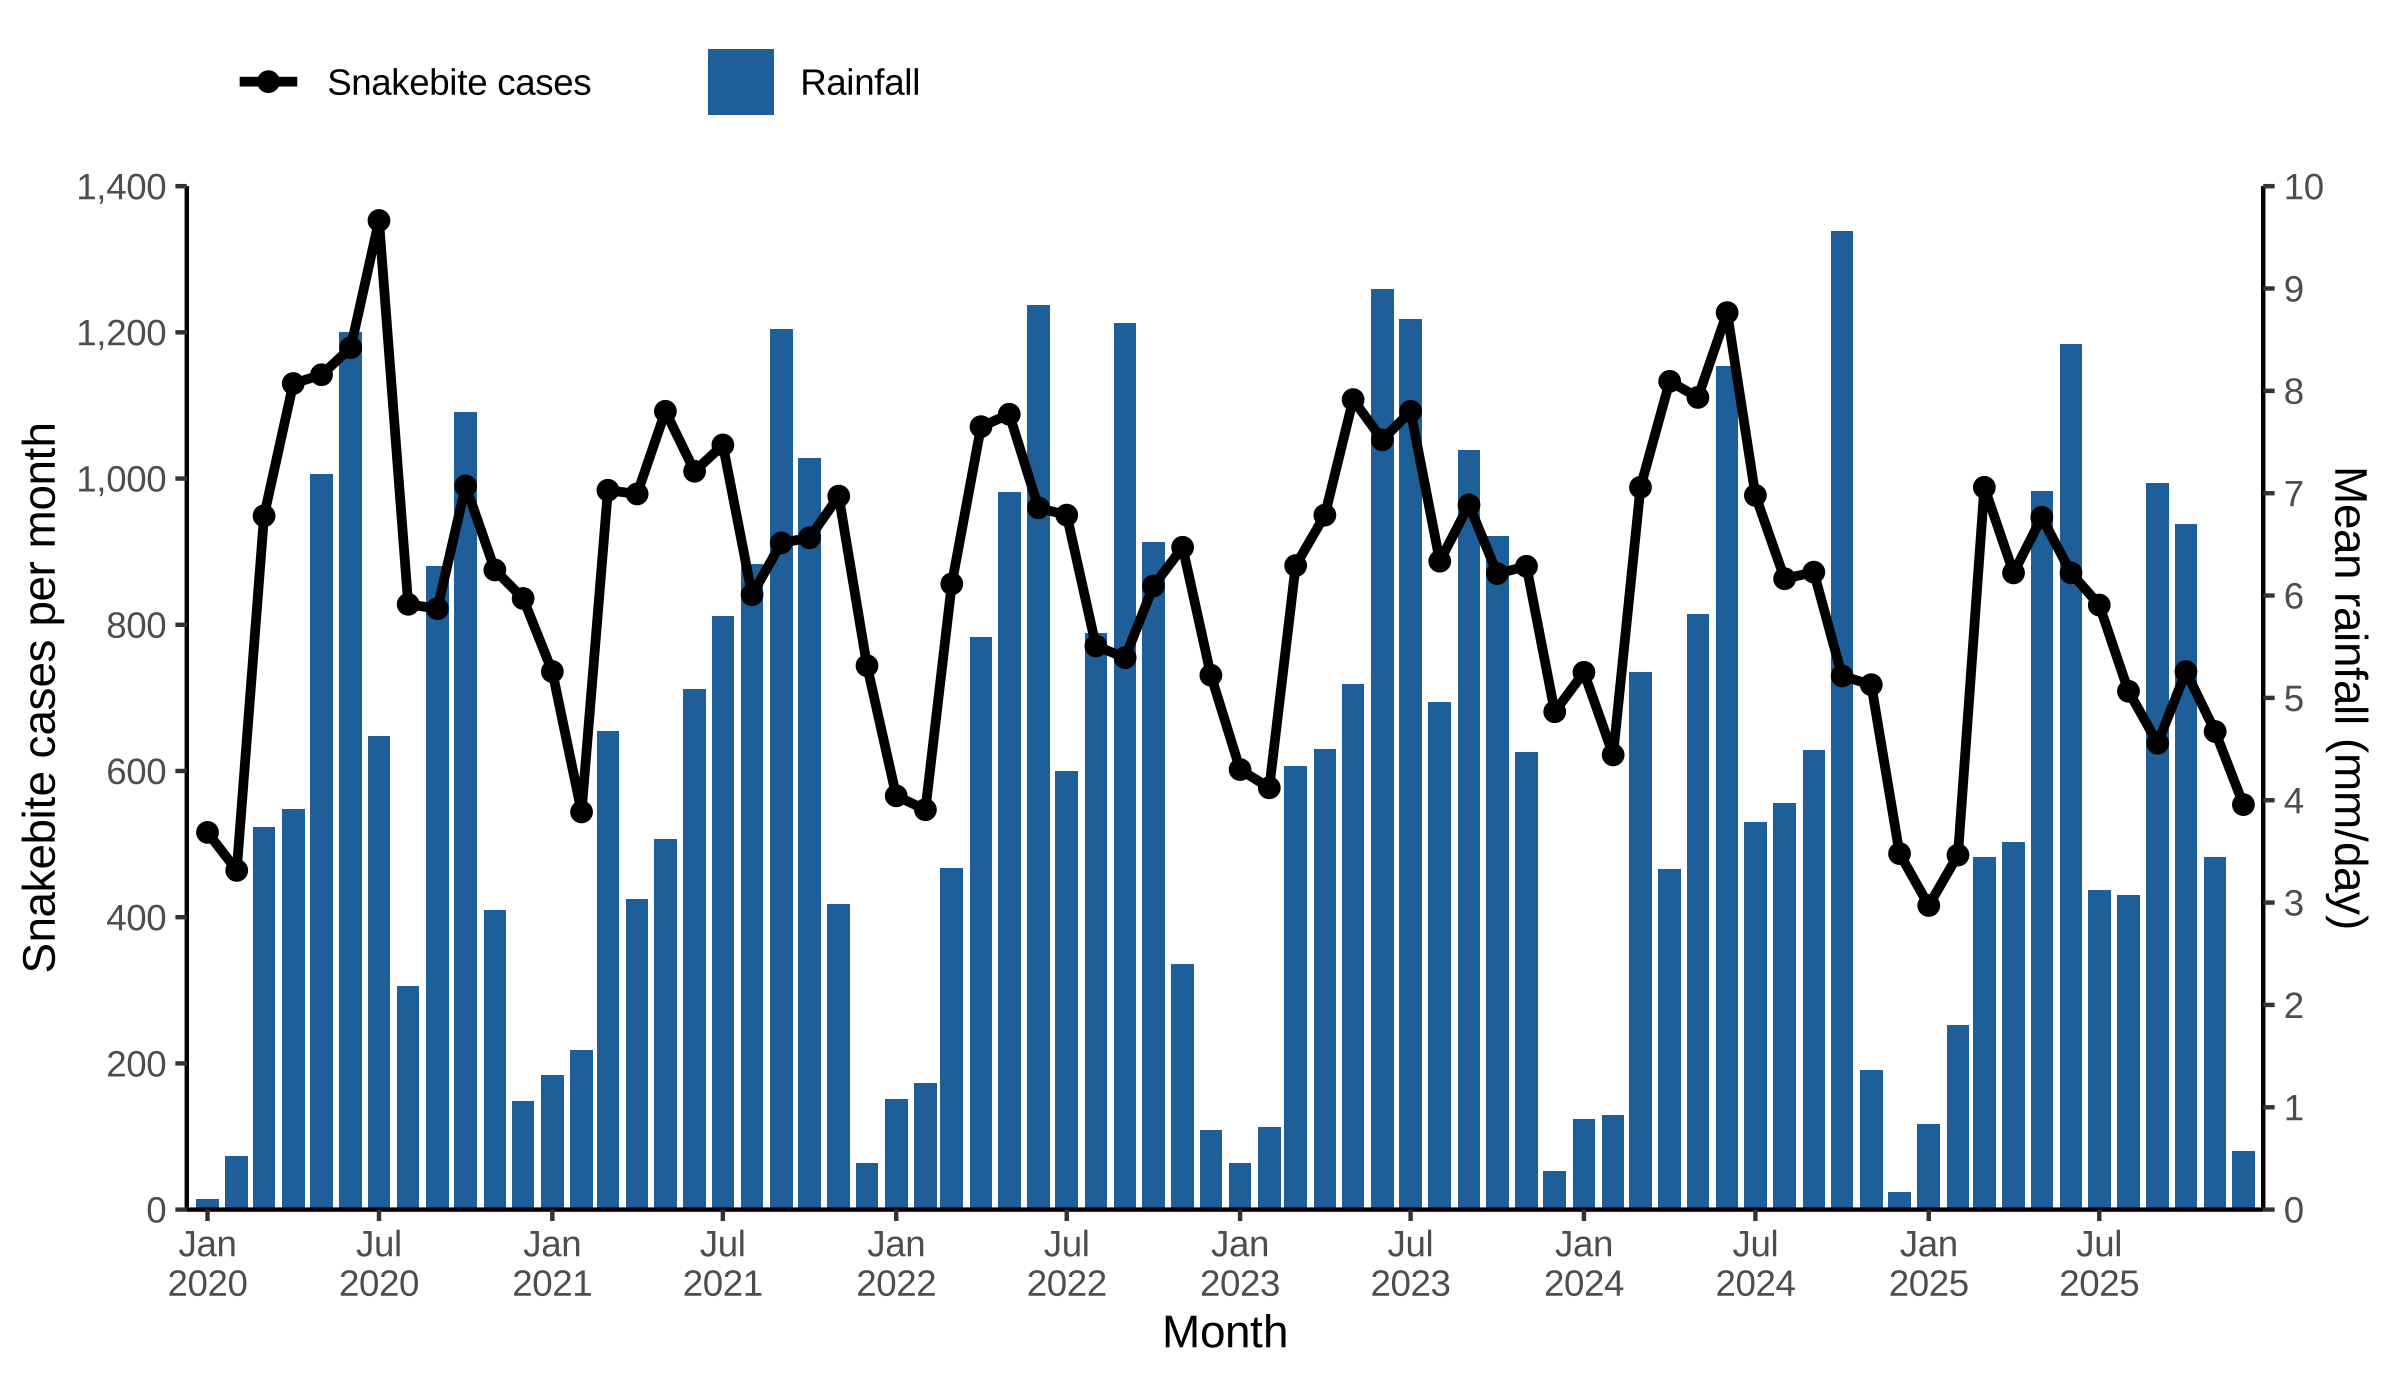
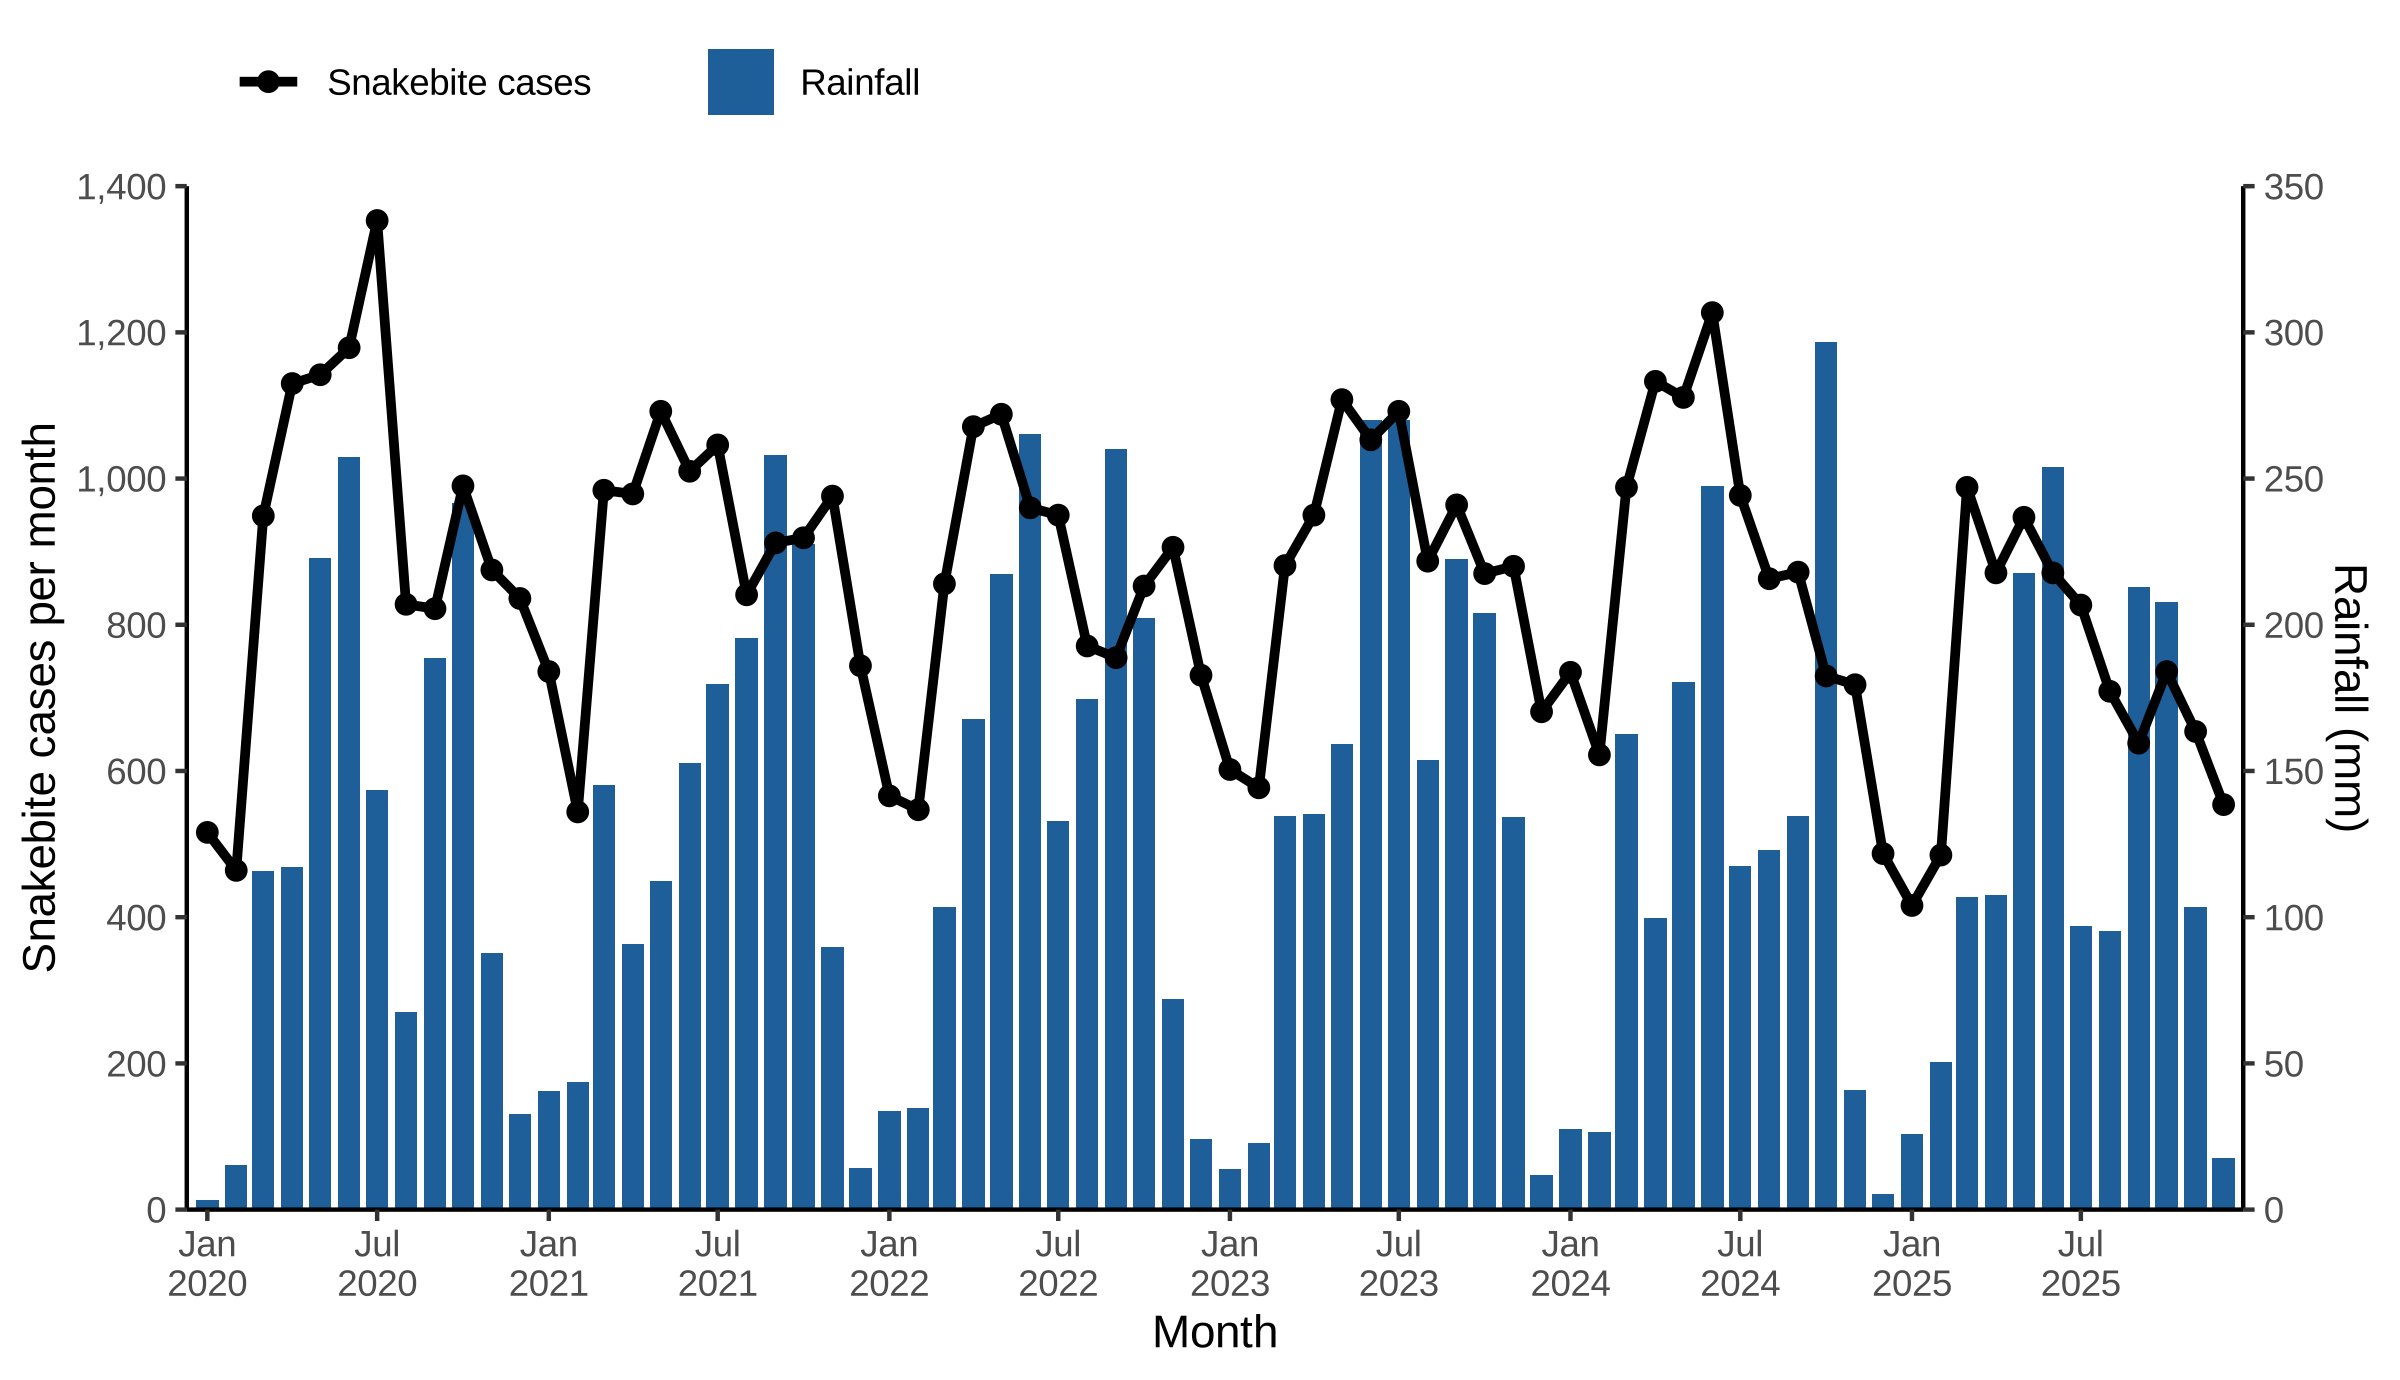
Show rainfall as monthly totals (mm) in Figs 2-3 and Section 3.1-3.2
Monthly rainfall = NASA POWER daily mean x days in month, averaged over
districts; axes titled Rainfall (mm).

Claude-Session: https://claude.ai/code/session_01EpHxzHnx9eTUVm7jcAJhhp

diff --git a/MANUSCRIPT_DRAFT.md b/MANUSCRIPT_DRAFT.md
@@ -342,13 +342,13 @@ We used anonymised routine surveillance data aggregated to monthly counts by dis
 * **District range.** The median district rate was 26.2 per 100,000 (IQR 12.0–50.7). The highest was 277.5, in Mamprugu Moagduri.
 * **Count distribution.** Monthly counts were overdispersed (mean 3.27, variance 29.1), and 31.9% of district-months had zero cases.
 
-Monthly snakebite cases across Ghana ranged from 416 (January 2025) to 1,353 (July 2020), with a median of 872 per month ([Fig 2](#fig2)). In every year, the fewest cases were reported between December and February and the most between March and July; the annual peak fell in July in 2020, in May in 2021–2023, in June in 2024 and in March in 2025. Mean rainfall was lowest in December or January of each year and highest in June, September or October ([Fig 2](#fig2)).
+Monthly snakebite cases across Ghana ranged from 416 (January 2025) to 1,353 (July 2020), with a median of 872 per month ([Fig 2](#fig2)). In every year, the fewest cases were reported between December and February and the most between March and July; the annual peak fell in July in 2020, in May in 2021–2023, in June in 2024 and in March in 2025. Rainfall was lowest in December or January of each year and highest in June, September or October ([Fig 2](#fig2)).
 
 <a name="fig2"></a>
 
 ![Fig 2. Monthly snakebite cases and rainfall, Ghana, January 2020 to December 2025.](figures/Fig2.png)
 
-**Fig 2. Monthly snakebite cases and rainfall, Ghana, January 2020 to December 2025.** The line shows the number of snakebite cases reported each month across all districts (left axis), and the bars the mean rainfall across districts in each month (right axis). Rainfall for December 2025 was estimated (Section 2.2). Case data from DHIMS-2; rainfall data from NASA POWER [[18](https://power.larc.nasa.gov/docs/methodology/meteorology/)]; figure drawn in R with ggplot2 [[56](https://ggplot2.tidyverse.org)].
+**Fig 2. Monthly snakebite cases and rainfall, Ghana, January 2020 to December 2025.** The line shows the number of snakebite cases reported each month across all districts (left axis), and the bars the monthly rainfall of the average district (right axis), calculated as the NASA POWER daily mean multiplied by the number of days in the month. Rainfall for December 2025 was estimated (Section 2.2). Case data from DHIMS-2; rainfall data from NASA POWER [[18](https://power.larc.nasa.gov/docs/methodology/meteorology/)]; figure drawn in R with ggplot2 [[56](https://ggplot2.tidyverse.org)].
 
 **Table 1. Snakebite cases and incidence, Ghana, 2020–2025**
 
@@ -402,13 +402,13 @@ Regime is assigned by region here. [AUTHOR: refine by agro-ecological zone at di
 
 ### 3.2 Seasonality
 
-In unimodal districts, snakebite incidence was lowest in January (2.58 cases per 100,000 per month), more than doubled between February (2.74) and March (5.87) and peaked in July (7.98). Rainfall in these districts peaked in September (8.44 mm/day) and was below 0.1 mm/day from December to February ([Fig 3](#fig3)). In bimodal districts, incidence was lowest in February (1.39) and peaked in May (2.58), fell to 1.77 in August and rose again to 2.06–2.11 in September–October. Rainfall in these districts peaked in June (8.79 mm/day) and October (8.45 mm/day), with a dip in August (3.22 mm/day). In the transition zone, incidence peaked in May (4.15), and rainfall exceeded 6 mm/day from June to September.
+In unimodal districts, snakebite incidence was lowest in January (2.58 cases per 100,000 per month), more than doubled between February (2.74) and March (5.87) and peaked in July (7.98). Rainfall in these districts peaked in August and September (254 and 253 mm) and was below 3 mm a month from December to February ([Fig 3](#fig3)). In bimodal districts, incidence was lowest in February (1.39) and peaked in May (2.58), fell to 1.77 in August and rose again to 2.06–2.11 in September–October. Rainfall in these districts peaked in June (264 mm) and October (262 mm), with a dip in August (100 mm). In the transition zone, incidence peaked in May (4.15), and rainfall exceeded 180 mm a month from June to September.
 
 <a name="fig3"></a>
 
 ![Fig 3. Mean monthly rainfall by rainfall regime.](figures/Fig3.png)
 
-**Fig 3. Mean monthly rainfall by rainfall regime, Ghana, January 2020 to December 2025.** Lines show the mean over the six years of the regime's mean district rainfall in each calendar month, and shaded bands the range across years. Data are the 18,636 analysed district-months from 260 districts; district numbers in the key are those classified in each regime ([Fig 1](#fig1)). Rainfall for December 2025 was estimated (Section 2.2). Rainfall data from NASA POWER [[18](https://power.larc.nasa.gov/docs/methodology/meteorology/)]; figure drawn in R with ggplot2 [[56](https://ggplot2.tidyverse.org)].
+**Fig 3. Mean monthly rainfall by rainfall regime, Ghana, January 2020 to December 2025.** Lines show the mean over the six years of the monthly rainfall of the average district in each regime, and shaded bands the range across years. Monthly rainfall is the NASA POWER daily mean multiplied by the number of days in the month. Data are the 18,636 analysed district-months from 260 districts; district numbers in the key are those classified in each regime ([Fig 1](#fig1)). Rainfall for December 2025 was estimated (Section 2.2). Rainfall data from NASA POWER [[18](https://power.larc.nasa.gov/docs/methodology/meteorology/)]; figure drawn in R with ggplot2 [[56](https://ggplot2.tidyverse.org)].
 
 The median month of rainy-season onset was April in unimodal districts (interquartile range April–May) and March in transition and bimodal districts (March–March). Within districts, the onset month varied from year to year with a mean standard deviation of 0.58 months in unimodal, 0.50 in transition and 0.38 in bimodal districts. False starts occurred in 4 of 281 unimodal district-years (1.4%) and in none elsewhere. Three months before onset, incidence relative to the district mean was 0.49 in unimodal, 0.77 in transition and 0.93 in bimodal districts. Two months after onset it reached 1.58 (95% CI 1.33–1.84), 1.47 (0.91–2.03) and 1.25 (1.16–1.34), respectively, and four months after onset it was 1.07, 1.00 and 1.07 ([Fig 4](#fig4)).
 
